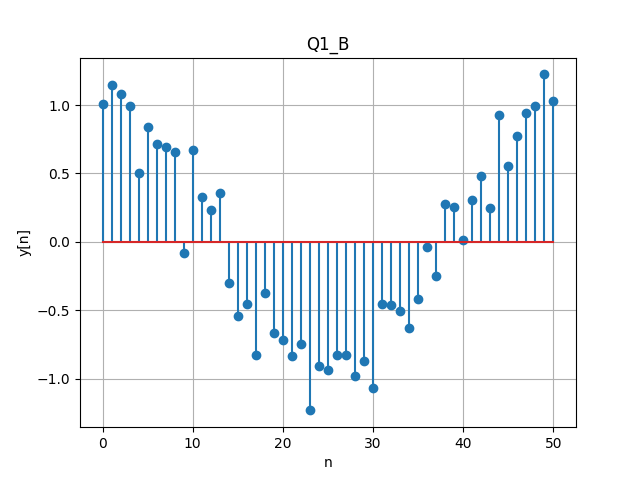
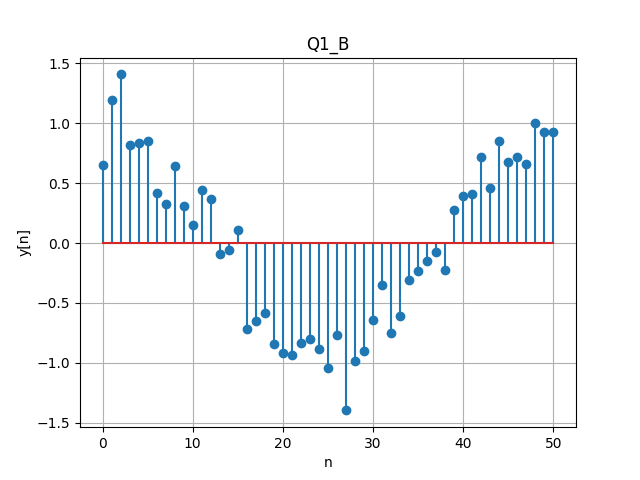
all done except Q11, Q12 solved in MATLAB

diff --git a/Q11.py b/Q11.py
@@ -1,0 +1,47 @@
+import numpy as np
+import matplotlib.pyplot as plt
+import os
+import random
+import scipy as scp
+from scipy.signal import lfilter, lfilter_zi
+
+# Define the sequence x[n]
+x = np.array([1, -0.5, -0.3, -0.1])
+
+# Compute the discrete-time Fourier transform of x[n] at 501 equispaced frequencies between [0,π]
+frequencies = np.linspace(0, np.pi, 501)
+X = np.fft.fft(x, len(frequencies))
+
+print(X)
+##
+
+# Plot the magnitude of X(e^jw)
+plt.figure()
+plt.plot(frequencies, np.abs(X))
+plt.xlabel('Frequency (rad/sample)')
+plt.ylabel('Magnitude')
+plt.title('Magnitude of X(e^jw)')
+
+# Plot the angle of X(e^jw)
+plt.figure()
+plt.plot(frequencies, np.angle(X))
+plt.xlabel('Frequency (rad/sample)')
+plt.ylabel('Angle (rad)')
+plt.title('Angle of X(e^jw)')
+plt.show()
+
+# Plot the real part of X(e^jw)
+plt.figure()
+plt.plot(frequencies, np.real(X))
+plt.xlabel('Frequency (rad/sample)')
+plt.ylabel('Real')
+plt.title('Real part of X(e^jw)')
+plt.show()
+
+# Plot the imaginary part of X(e^jw)
+plt.figure()
+plt.plot(frequencies, np.imag(X))
+plt.xlabel('Frequency (rad/sample)')
+plt.ylabel('Imaginary')
+plt.title('Imaginary part of X(e^jw)')
+plt.show()

diff --git a/Q9.py b/Q9.py
@@ -31,27 +31,33 @@ LL = -5
 UL = 30
 n = np.arange(LL, UL + 1)
 rec = [5 * (unit_step(n, 0)[i - LL] - unit_step(n, -20)[i- LL]) for i in n]
-
+plt.subplot(2, 1, 1)
 plt.stem(n, rec)
+
 plt.grid()
-plt.show()
-plt.savefig('Q9_A.png')
+plt.xlabel('n')
+plt.ylabel('x[n]')
+plt.title('Rectangular Pulse')
 
 yn = rec - np.roll(rec, +1) # ask about this
 
+plt.subplot(2, 1, 2)
 plt.stem(n, yn)
 plt.grid()
+plt.xlabel('n')
+plt.ylabel('y[n]')
 plt.show()
 
 # b
 
 trig = [i * (unit_step(n, 0)[i- LL] - unit_step(n, -10)[i- LL]) + (20 - i) * (unit_step(n, -10)[i- LL] - unit_step(n, -20)[i- LL]) for i
         in n]
+plt.subplot(2, 1, 1)
 plt.stem(n, trig)
 plt.grid()
-plt.show()
 plt.savefig('Q9_B.png')
 yn = trig - np.roll(trig, 1) # ask about this
+plt.subplot(2, 1, 2)
 plt.stem( yn)
 plt.grid()
 plt.show()
@@ -61,11 +67,12 @@ LL = 0
 UL = 100
 n = np.arange(LL, UL + 1)
 sinus = [np.sin(np.pi * i / 25) * (unit_step(n, 0)[i- LL] - unit_step(n, -100)[i- LL]) for i in n]
+plt.subplot(2, 1, 1)
 plt.stem(n, sinus)
 plt.grid()
-plt.show()
 
 yn = sinus - np.roll(sinus, 1) # ask about this
+plt.subplot(2, 1, 2)
 plt.stem(n, yn)
 plt.grid()
 plt.show()

diff --git a/tmp.py b/tmp.py
@@ -1,20 +1,45 @@
 import numpy as np
 import matplotlib.pyplot as plt
 
-# Define the input sequence
-x = np.zeros(100)
-x[:20] = 5
+def unit_step(interval, delay) -> list:
+    unit = []
+    for sample in interval:
+        if sample >= -delay:
+            unit.append(1)
+        else:
+            unit.append(0)
 
-# Implement the differentiator
-y = np.zeros(100)
-y[1:] = x[1:] - x[:-1]
+    return unit
 
-# Plot the input and output sequences
-plt.figure()
-plt.stem(x)
-plt.title("Input sequence (rectangular pulse)")
 
-plt.figure()
+LL = -5
+UL = 45
+
+# Define the interval
+n = np.arange(-5, 45)
+
+# Define the rectangular pulse x(n)
+
+x = [(unit_step(n, 0)[i + -LL] - unit_step(n, -10)[i +-LL]) for i in n]
+
+# Define the impulse response h[n]
+h = (0.9)**n * np.heaviside(n, 1)
+
+# Convolve x(n) and h[n] to find y(n)
+y = np.convolve(x, h, mode='full')
+
+# Plot x(n)
+plt.subplot(3,1,1)
+plt.stem( x)
+plt.title('x(n)')
+
+# Plot h[n]
+plt.subplot(3,1,2)
+plt.stem( h)
+plt.title('h[n]')
+
+# Plot y(n)
+plt.subplot(3,1,3)
 plt.stem(y)
-plt.title("Output sequence (simple differentiator)")
+plt.title('y(n)')
 plt.show()

diff --git a/Q12.py b/Q12.py
@@ -1,0 +1,49 @@
+import numpy as np
+import matplotlib.pyplot as plt
+import os
+import random
+import scipy as scp
+from scipy.signal import lfilter, lfilter_zi
+
+LL = 0
+UL = 100
+n = np.arange(0, UL + 1)
+
+xn = np.cos(np.pi * n / 2)
+yn = np.exp(1j*np.pi*n/4) * xn
+w = np.linspace(-2*np.pi, 2*np.pi, 401)
+X_ejw = np.fft.fft(xn, len(w))
+Y_ejw = np.fft.fft(yn, len(w))
+
+angle = np.angle(X_ejw)
+plt.grid()
+plt.title('Phase')
+plt.xlabel('w')
+plt.subplot(2, 1, 1)
+plt.plot(w, angle)
+
+
+mag = np.abs(X_ejw)
+plt.grid()
+plt.xlabel('w')
+plt.title('Magnitude')
+plt.subplot(2, 1, 2)
+plt.plot(w, mag)
+plt.show()
+
+angley = np.angle(Y_ejw)
+plt.grid()
+plt.title('Phase')
+plt.xlabel('w')
+plt.subplot(2, 1, 1)
+plt.plot(w, angley)
+
+magy = np.abs(Y_ejw)
+plt.grid()
+plt.xlabel('w')
+plt.title('Magnitude')
+plt.subplot(2, 1, 2)
+plt.xticks()
+plt.plot(w, magy)
+plt.show()
+

diff --git a/Q1.py b/Q1.py
@@ -15,14 +15,11 @@ n = np.arange(LL, UL + 1)
 mean = 0
 variance = 1
 sigma = np.sqrt(variance)
-w = np.random.normal(mean, sigma, size=len(n))
-
-y = [np.cos(0.04 * np.pi * t) + 0.2 * w[t] for t in n]  # APPENDING EACH VALUE OF y[i] into to the list y
-
+w = np.random.normal(mean, sigma,len(n))
+y = np.cos(0.04 * np.pi * n) + 0.2 * w
 plt.grid() # TO SHOW THE GRID
 plt.stem(n, y) # TO PLOT THE GRAPH in discrete form
 plt.xlabel('n')
-# plt.xticks(n)
 plt.ylabel('y[n]')
 plt.title('Q1_B')
 plt.savefig("q1_B.png") # SAVING THE PLOT AS A PNG FILE

diff --git a/Q6.py b/Q6.py
@@ -1,7 +1,5 @@
 import numpy as np
 import matplotlib.pyplot as plt
-from scipy.signal import convolve
-
 import os
 
 
@@ -38,16 +36,10 @@ plt.ylabel('h[n]')
 plt.savefig('plots/Q6_H.png')
 plt.show()
 
-#FIX BUG !!!!!!
-yn = convolve(xn, hn)
+yn = np.convolve(xn, hn)
 plt.stem(yn)
 plt.xlabel('n')
 plt.ylabel('y[n]')
 plt.grid()
 plt.savefig('plots/Q6_Y.png')
 plt.show()
-
-#
-#
-#
-#

diff --git a/Q4.py b/Q4.py
@@ -11,7 +11,7 @@ hn = np.array([2, 3, 0, -5, 2, 1])
 ny = np.arange(-4, 7 + 1)
 
 # find y[n]
-yn = np.convolve(xn, hn)
+yn = np.convolve(xn, hn, 'full')
 
 # plot y[n]
 plt.stem(yn)
@@ -19,5 +19,5 @@ plt.grid()
 plt.title('Q4')
 plt.xlabel('n')
 plt.ylabel('y[n]')
-plt.savefig('Q4.png', dpi=100)
+# plt.savefig('Q4.png', dpi=100)
 plt.show()
